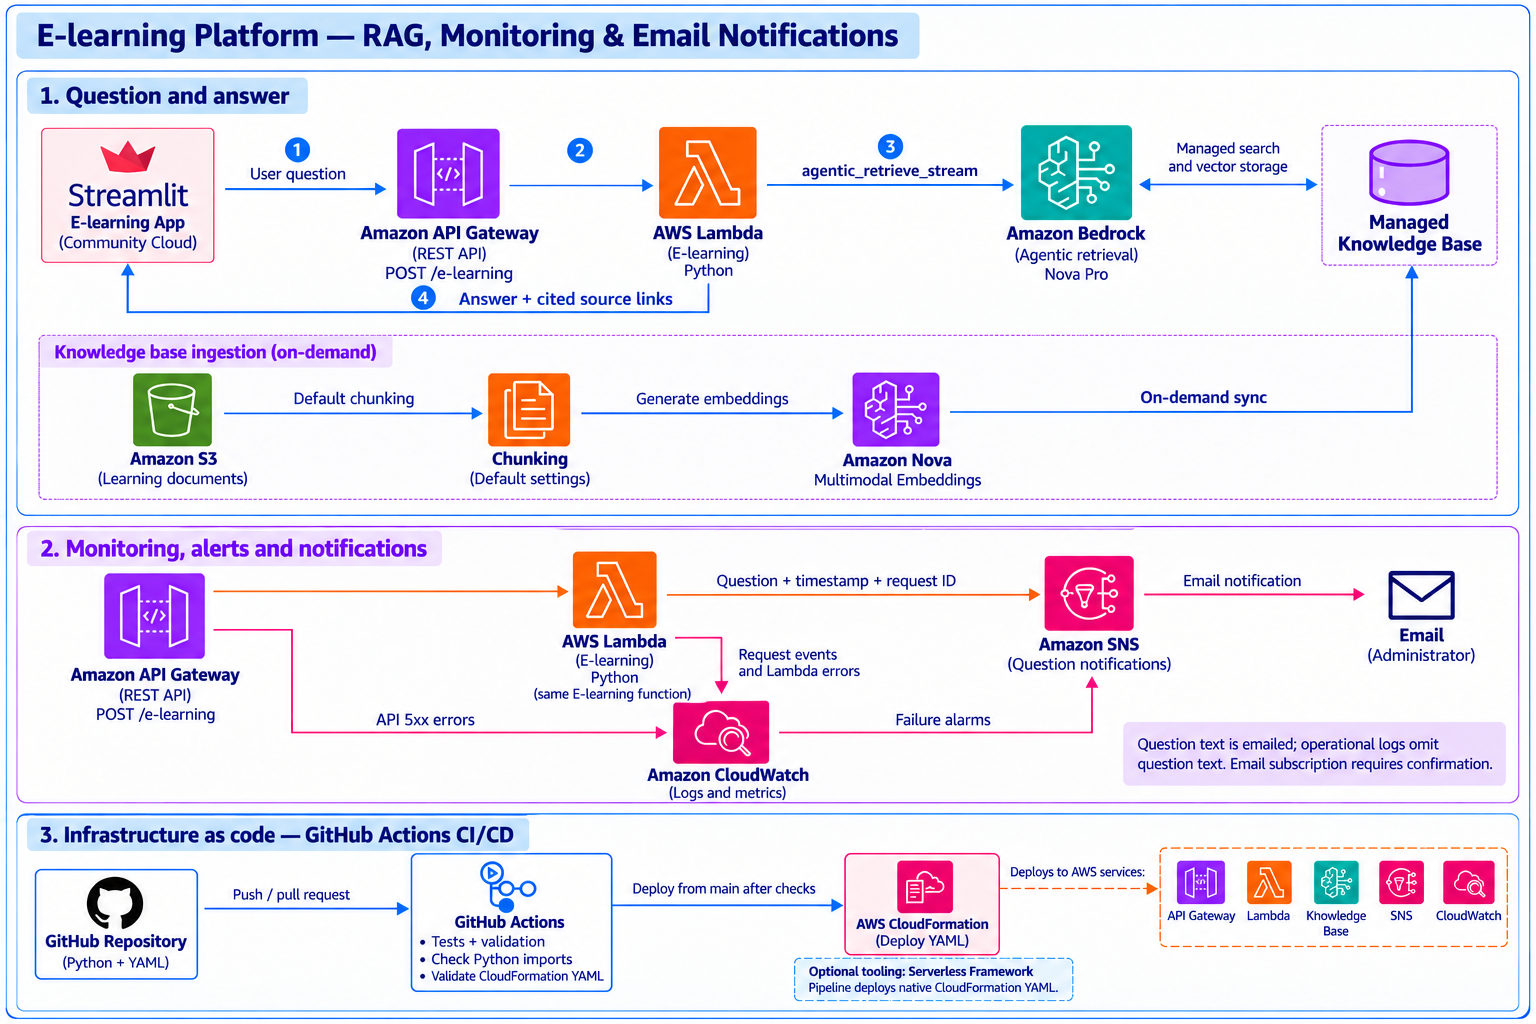
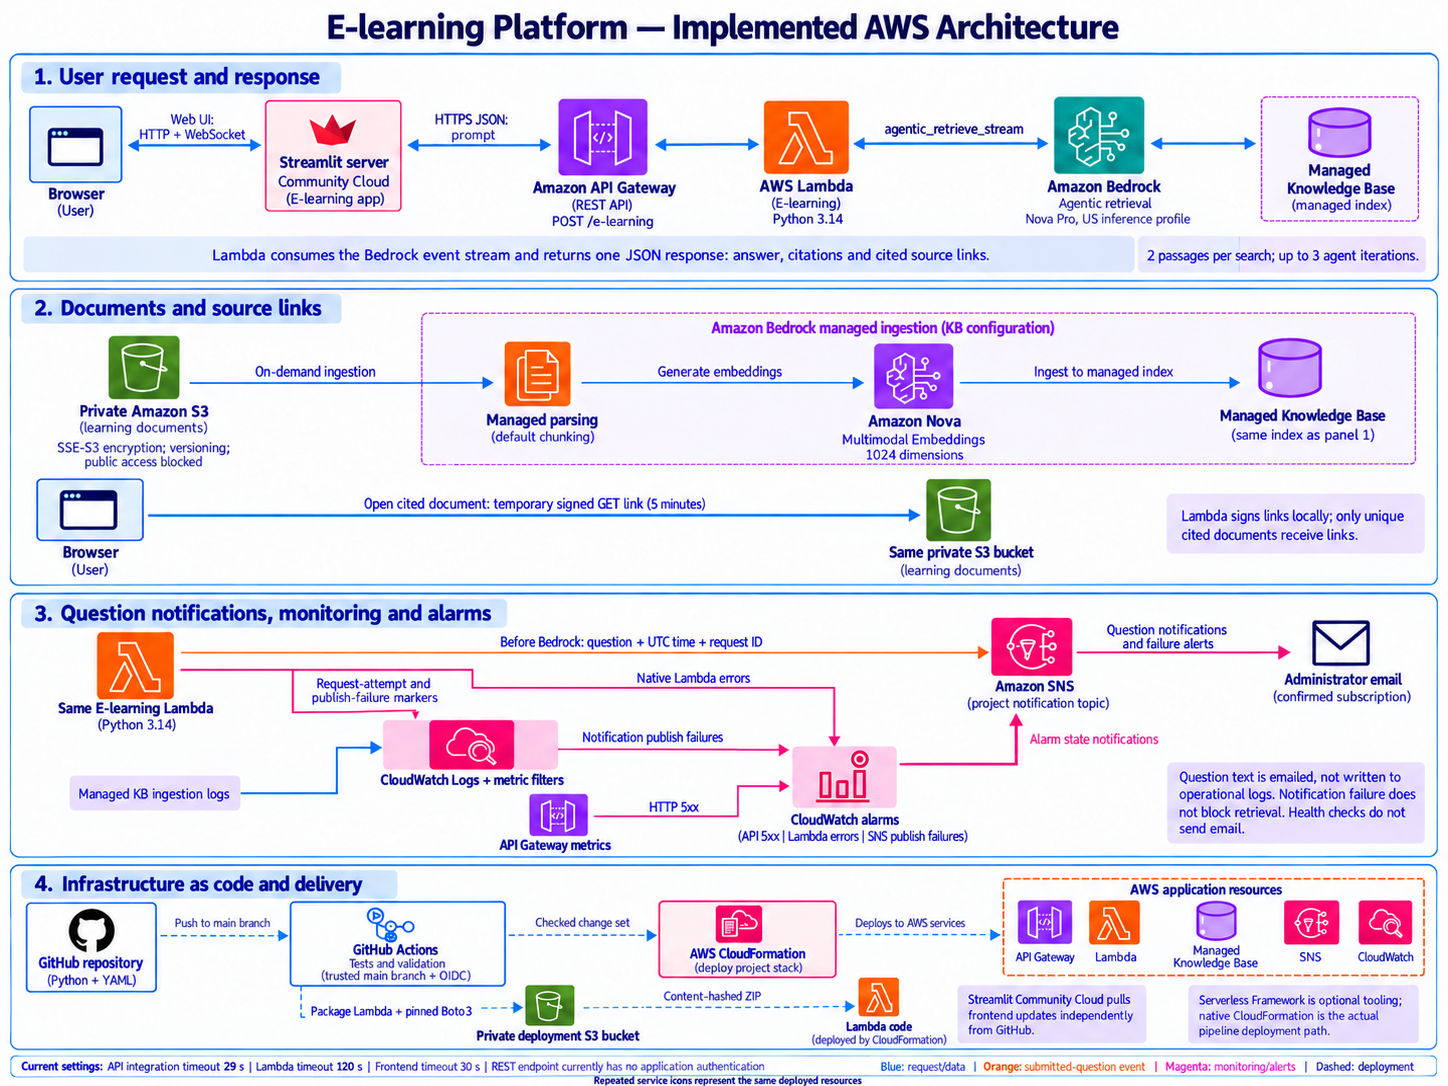
Update architecture diagram and document implemented application flows

diff --git a/docs/architecture.md b/docs/architecture.md
@@ -1,0 +1,72 @@
+# Application architecture
+
+This diagram and guide describe the implemented application, checked against the Python code, authored YAML, and deployed `e-learning-platform-dev` CloudFormation stack in `us-east-1`.
+
+![Implemented e-learning AWS architecture](images/rag-knowledge-base-architecture-monitoring.png)
+
+## Question and answer flow
+
+1. **Browser to Streamlit.** The learner types a question or selects a suggestion, then clicks **Find answer**. Streamlit Community Cloud hosts the Python frontend. Browser interaction uses Streamlit's web connection; the browser does not call the question API directly.
+2. **Streamlit to API Gateway.** The Streamlit server reads `API_URL` from its environment or hosting secrets and sends an HTTPS POST to `/dev/e-learning` with `{"prompt":"..."}`. The question limit is 2,000 characters. Selecting a suggestion alone does not submit a request.
+3. **API Gateway to Lambda.** The regional REST API uses a custom Lambda integration. Its `application/json` request template passes the prompt to the existing `E-learning` function. API request validation rejects missing or non-text prompts; Lambda also trims and validates input. Other content types are not passed through.
+4. **Notification before retrieval.** For a valid request, Lambda writes a request-attempt marker and publishes the question, UTC timestamp, request ID, and knowledge-base ID to SNS. SNS sends the notification through the confirmed administrator email subscription. A publishing failure is recorded, and retrieval continues. This email reports a submitted attempt, not a completed answer.
+5. **Agentic retrieval and generation.** Lambda calls `bedrock-agent-runtime.agentic_retrieve_stream` with `generateResponse=True`. Nova Pro uses the configured US inference profile to plan retrieval and generate an answer from the managed knowledge base. The configuration requests two passages per search, allows up to three agent iterations, and disables reranking. The profile permits model execution in its US destination regions.
+6. **Return the final answer.** Lambda consumes the Bedrock event stream and waits for its final result. It returns `answer`, `citations`, `results`, and `sources`. API Gateway unwraps the Lambda response body and preserves its HTTP status; Streamlit displays the answer. The application does not stream partial model text to the browser.
+7. **Open a source.** Citation result indexes select the supporting documents. Lambda deduplicates their S3 identifiers and locally signs GET URLs only for the configured bucket and prefix. The default link lifetime is 300 seconds. When the learner clicks **Open source**, their browser reads the original document directly from private S3 using that temporary URL. The source list is not the entire sample library or every retrieved passage.
+
+## Document preparation and storage
+
+The source bucket contains the five demo text documents under `demo/learning/`. It uses SSE-S3 encryption, blocked public access, bucket-owner-enforced ownership, versioning, and a retain policy.
+
+An on-demand data-source sync reads that prefix. Bedrock's managed ingestion uses `SMART_PARSING`, default chunking, and the selected Amazon Nova Multimodal Embeddings model (`amazon.nova-2-multimodal-embeddings-v1:0`). Embeddings use 1,024 FLOAT32 dimensions. Bedrock manages the search index and vector storage; the application does not provision an OpenSearch collection.
+
+All five documents were indexed when reviewed. Uploading or changing an S3 file does not automatically start a new sync: no recurring sync schedule is configured. Source documents and deployment ZIPs use separate S3 buckets.
+
+## Monitoring, notification, and failure paths
+
+The same deployed Lambda and API appear again in the diagram's monitoring detail panel; those icons do not represent additional functions or APIs.
+
+| Signal | Source and destination | Meaning |
+| --- | --- | --- |
+| Submitted question | Lambda publishes directly to the project SNS topic, then email | A valid question was submitted for a Bedrock attempt. |
+| Request count | Lambda log marker to a CloudWatch metric filter | `BedrockRequestAttempts` counts application attempts, not internal model calls. |
+| Publish failure | Lambda log marker to a metric filter and alarm | `QuestionNotificationFailures` records failures to publish to SNS. |
+| Lambda failure | Native `AWS/Lambda` Errors metric to an alarm | Unhandled runtime failures and timeouts. Handled JSON error responses do not increment this metric. |
+| API failure | Native `AWS/ApiGateway` 5XXError metric to an alarm | Server errors, including the handler's mapped HTTP 5xx responses. |
+| Ingestion diagnostics | Bedrock application log delivery to a separate CloudWatch log group | Document crawl, parsing, and indexing activity. These logs are separate from the Lambda metric filters. |
+
+The three alarms route through the same SNS topic. Each evaluates a one-minute window, triggers at one failure, and treats missing data as healthy. Alarm emails occur on entering ALARM; submitted-question emails use direct SNS publishes so they are not limited to alarm state transitions.
+
+Lambda operational logs omit the question, answer, and document text. The notification email deliberately contains the question. Both Lambda and knowledge-base log groups retain logs for 30 days. Health checks and invalid empty questions do not publish notifications. SNS Standard can deliver duplicate messages; the request ID identifies the originating request.
+
+## Deployment and access
+
+GitHub Actions runs Python/frontend tests, dependency checks, YAML validation, CloudFormation lint, and deployment guard checks. Pull requests receive checks. Trusted `main` deployments use GitHub OIDC and the project-scoped deployment role.
+
+The runner packages `lambda.py` and the pinned backend SDK into a content-hashed ZIP and uploads it to the private deployment bucket. It composes the native YAML fragments, validates the result, reviews a CloudFormation change set, and executes it. The main stack owns the API, Lambda, document storage, knowledge base, SNS, metric filters, alarms, and their project IAM/logging resources. The deployment-role bootstrap is a separate approved prerequisite stack.
+
+The pipeline rejects destructive resource changes. API definition changes generate a new immutable API deployment snapshot while preserving the stage URL; old snapshots are retained. Post-deployment checks verify readiness, request mappings, monitoring resources, and email subscription status. The health/API validation checks do not invoke the model or send question emails.
+
+Streamlit Community Cloud pulls frontend code changes independently from GitHub and has its own API connection settings. It is not provisioned by this CloudFormation stack. Serverless Framework remains optional checked-in tooling; the actual pipeline submits native CloudFormation YAML through the deployment script.
+
+## Current design limits
+
+| Area | Implemented behavior |
+| --- | --- |
+| Public endpoint | The REST method uses `AuthorizationType: NONE`. No application sign-in, API key requirement, or per-user authorization is implemented. Internal AWS calls use scoped service roles. |
+| Response time | API integration: 29 seconds. Lambda: 120 seconds. Frontend default: 30 seconds. The gateway can time out before Lambda finishes. |
+| Source access | A signed URL grants its holder temporary read access to that cited S3 object; it is not a per-user authorization mechanism. |
+| Notifications | Publish is attempted before retrieval, with short SDK timeouts. There is no durable notification outbox. SNS publish acceptance and successful answer generation are separate events. |
+| Retrieval scope | The two-result setting controls passages. Citation references and document deduplication determine the displayed source files. |
+| Data freshness | Source changes require an explicit on-demand sync before they can affect indexed answers. |
+
+## Code and template references
+
+- [Frontend request and response handling](../streamlit-ui/api_client.py), [UI submission](../streamlit-ui/streamlit_app.py), and [frontend settings](../streamlit-ui/app_config.py).
+- [Lambda retrieval, notifications, and source-link generation](../backend/src/lambda.py).
+- [REST integration and mapping templates](../infrastructure/resources/api-gateway.yml) and [Lambda runtime/IAM configuration](../infrastructure/resources/lambda.yml).
+- [Source bucket](../infrastructure/resources/knowledge-base-storage.yml), [managed knowledge base and connector](../infrastructure/resources/knowledge-base.yml), and [ingestion log delivery](../infrastructure/resources/knowledge-base-logging.yml).
+- [SNS, metric filters, and alarms](../infrastructure/resources/monitoring.yml).
+- [GitHub Actions](../.github/workflows/ci.yml), [native CloudFormation deployment](../infrastructure/scripts/deploy.py), and [bootstrap role](../infrastructure/bootstrap/github-deployment-role.yml).
+
+Protocol references: [Streamlit client-server architecture](https://docs.streamlit.io/develop/concepts/architecture/architecture) and [Bedrock agentic retrieval and citation format](https://docs.aws.amazon.com/bedrock/latest/userguide/kb-test-agentic-retrieve.html).

diff --git a/README.md b/README.md
@@ -20,29 +20,33 @@ The **knowledge base** is the searchable collection of course content. RAG is th
 
 ![RAG architecture showing questions, managed document ingestion, monitoring, email notifications, and GitHub Actions CI/CD](docs/images/rag-knowledge-base-architecture-monitoring.png)
 
-**API Gateway and Lambda are both serverless AWS services:** API Gateway receives requests, and Lambda runs the Python backend without us managing servers. The diagram shows **Serverless Framework** as deployment tooling outside the path of a user's question. The current knowledge-base pipeline submits native YAML directly to **CloudFormation**; the optional Serverless entry point imports the same infrastructure definitions.
+The diagram follows the implemented request, document, notification, monitoring, and deployment flows. **API Gateway and Lambda are serverless AWS services.** GitHub Actions deploys the AWS resources through native **CloudFormation YAML**; Serverless Framework remains optional tooling. Streamlit Community Cloud hosts the frontend separately.
+
+See the [architecture review](docs/architecture.md) for the flow traced through the code, source-link handling, alarm signals, security boundaries, and current timeout settings.
 
 ### 1. Prepare the learning materials
 
-The bottom half of the diagram shows how documents become searchable:
+The **Documents and source links** panel shows how documents become searchable:
 
 The documents can come from different sources, such as Google Drive, SharePoint, or other document storage systems. This architecture uses **Amazon S3** as its data source. Other sources can be connected through a suitable connector or ingestion process.
 
 1. **Store documents in Amazon S3.** This is the storage location for the learning materials.
 2. **Split the content into chunks.** Smaller passages make it easier to find the specific information needed for a question.
 3. **Create embeddings with Amazon Nova Multimodal Embeddings.** An embedding is a list of numbers that represents the meaning of a passage. It helps the system find related ideas even when the learner uses different words.
-4. **Store and index the embeddings in the managed knowledge base.** Amazon Bedrock manages vector storage, indexing, and retrieval. The infrastructure uses this managed storage rather than a separate OpenSearch collection shown in the diagram.
+4. **Store and index the embeddings in the managed knowledge base.** Amazon Bedrock manages vector storage, indexing, and retrieval. Document synchronization runs on demand.
 
 ### 2. Answer a learner's question
 
-The top half of the diagram shows what happens when someone asks for help:
+The **User request and response** panel shows what happens when someone asks for help:
 
-1. The learner types a question in the **Streamlit app**.
-2. **Amazon API Gateway** receives the request and passes it to **AWS Lambda**.
-3. Lambda coordinates the work and retrieves relevant passages from the **Amazon Bedrock knowledge base** using the AWS SDK, Boto3.
-4. The retrieved passagesâ€”the **top K chunks**, meaning a selected number of the closest matchesâ€”provide context for a language model in **Amazon Bedrock**.
-5. The model uses the question and those passages to generate an explanation.
-6. The answer returns to the learner in the app.
+1. The learner types a question in the **Streamlit app** and clicks **Find answer**.
+2. The Streamlit server sends the question to **Amazon API Gateway**, which passes it to **AWS Lambda**.
+3. Lambda publishes a submitted-question notification to **Amazon SNS**, then calls **Amazon Bedrock** through Boto3's `agentic_retrieve_stream` operation.
+4. Nova Pro searches the managed knowledge base and uses the retrieved passages to generate an explanation. Each search requests two passages by default, with up to three agent iterations.
+5. Lambda returns the completed answer, citations, and links to the unique supporting documents. API Gateway passes that response back to Streamlit for display.
+6. Opening a cited source reads the original document directly from private S3 through a temporary signed link, valid for five minutes by default.
+
+The monitoring panel shows the separate operational paths: request markers become CloudWatch metrics; API, Lambda, and notification-publishing failures trigger alarms through SNS. Question text is included in the administrator email and omitted from operational logs.
 
 ## A simple example
 
@@ -153,13 +157,13 @@ The [GitHub Actions workflow](.github/workflows/ci.yml) runs on pull requests ta
 
 This checks dependency installation, frontend behavior with mocked responses, infrastructure YAML, and deployment safety. A deployment job runs only for trusted `main`-branch pushes or manual workflow runs after these checks pass.
 
-The deployment job uses GitHub OIDC, merges and validates the native YAML template, checks and executes a CloudFormation change set, and verifies the knowledge base, Lambda, and REST API mapping. It rejects destructive removals and possible replacements; old API deployment snapshots are retained when publishing changes. Its readable YAML template and deployment summary are saved as workflow artifacts. The one-time deployment role is provisioned separately; the pipeline needs its ARN but no Serverless credential. Streamlit hosting is managed separately.
+The deployment job uses GitHub OIDC, merges and validates the native YAML template, checks and executes a CloudFormation change set, and verifies the knowledge base, Lambda, REST API mapping, notification subscription, and monitoring resources. It rejects destructive removals and possible replacements; old API deployment snapshots are retained when publishing changes. Its readable YAML template and deployment summary are saved as workflow artifacts. The one-time deployment role is provisioned separately; the pipeline needs its ARN but no Serverless credential. Streamlit hosting is managed separately.
 
 ## What about keys and credentials?
 
-The knowledge base and embeddings help find information. **Credentials serve a different purpose: they control access to AWS services.** The diagram does not specify an API key or sign-in mechanism.
+The knowledge base and embeddings help find information. **Credentials serve a different purpose: they control access to AWS services.** The current REST endpoint has no application sign-in or API key requirement; the internal Lambda and knowledge-base calls use project-scoped IAM roles.
 
-Lambda should use an IAM execution role with the permissions it needs. AWS secret keys should never be embedded in the frontend or committed to this repository.
+AWS secret keys are not embedded in the frontend or committed to this repository. GitHub Actions uses short-lived OIDC credentials for deployment.
 
 ## E-learning Lambda
 
